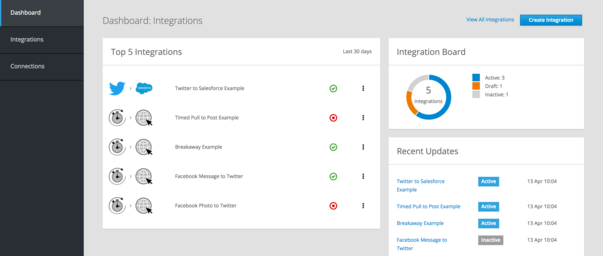
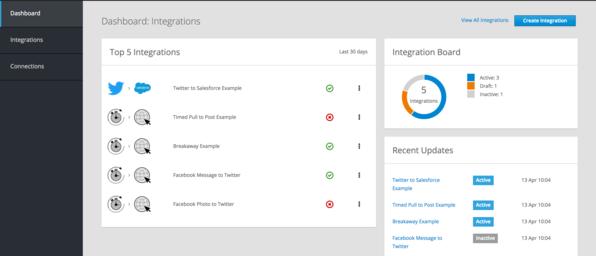
[ci skip] Publishing to gh-pages

diff --git a/index.html b/index.html
@@ -1,6 +1,4 @@
-<!DOCTYPE html
-    PUBLIC "-//W3C//DTD HTML 4.01//EN"
-    "http://www.w3.org/TR/html4/strict.dtd">
+<!DOCTYPE html>
 <html lang="en-US">
 
 <head>
@@ -117,7 +115,7 @@ ga('send', 'pageview');
   <div class="container">
     <div class="row align-items-center">
       <div class="col-xs-12 col-sm-12 col-md-6 col-lg-6 mb-2">
-        <img style="height: 10rem" src="images/screenshot-integration-list.png?5405a43" alt="Syndesis integration list"/>
+        <img style="width: 100%" src="images/screenshot-integration-list.png?5405a43" alt="Syndesis integration list"/>
       </div>
       <div class="col-xs-12 col-sm-12 col-md-6 col-lg-6">
         <h4>
@@ -135,7 +133,7 @@ ga('send', 'pageview');
   <div class="container">
     <div class="row align-items-center">
       <div class="col-xs-12 col-sm-12 col-md-6 col-lg-6 push-md-6 mb-2">
-        <img style="height: 10rem" src="images/screenshot-dashboard.png?5405a43" alt="Syndesis dashboard"/>
+        <img style="width: 100%" src="images/screenshot-dashboard.png?5405a43" alt="Syndesis dashboard"/>
       </div>
       <div class="col-xs-12 col-sm-12 col-md-6 col-lg-6 pull-md-6">
         <h4>
